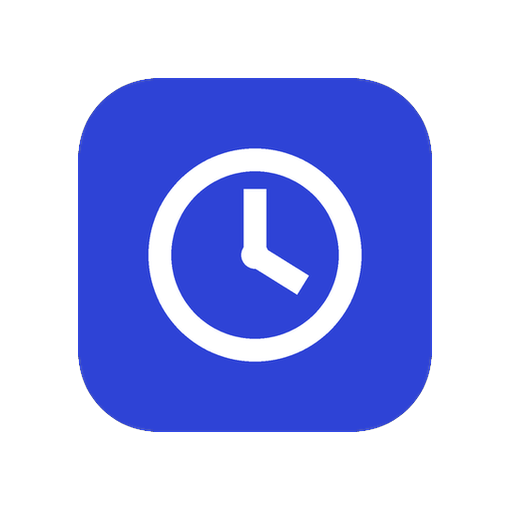
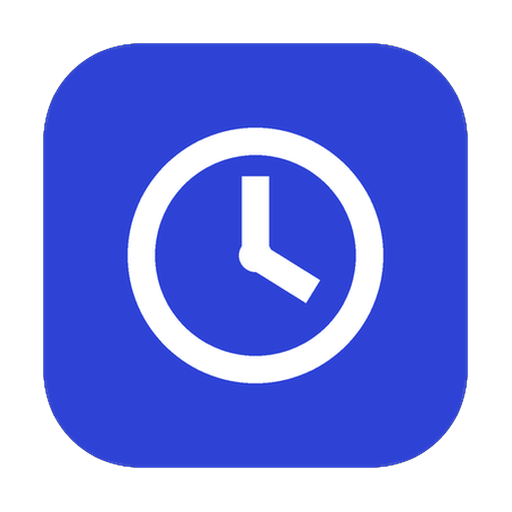
V2.02.68: ícone do app Mac recortado pela área do desenho e aumentado (cerca de 20% maior)
Claude-Session: https://claude.ai/code/session_018yerPYMkKr6UzfG4azh9kd

diff --git a/js/config.js b/js/config.js
@@ -7,4 +7,4 @@ window.TEMPO_CFG = {
 };
 
 /* versão exibida no rodapé da barra lateral; aumentar a cada publicação */
-const APP_VERSION = 'V2.02.67';
+const APP_VERSION = 'V2.02.68';
